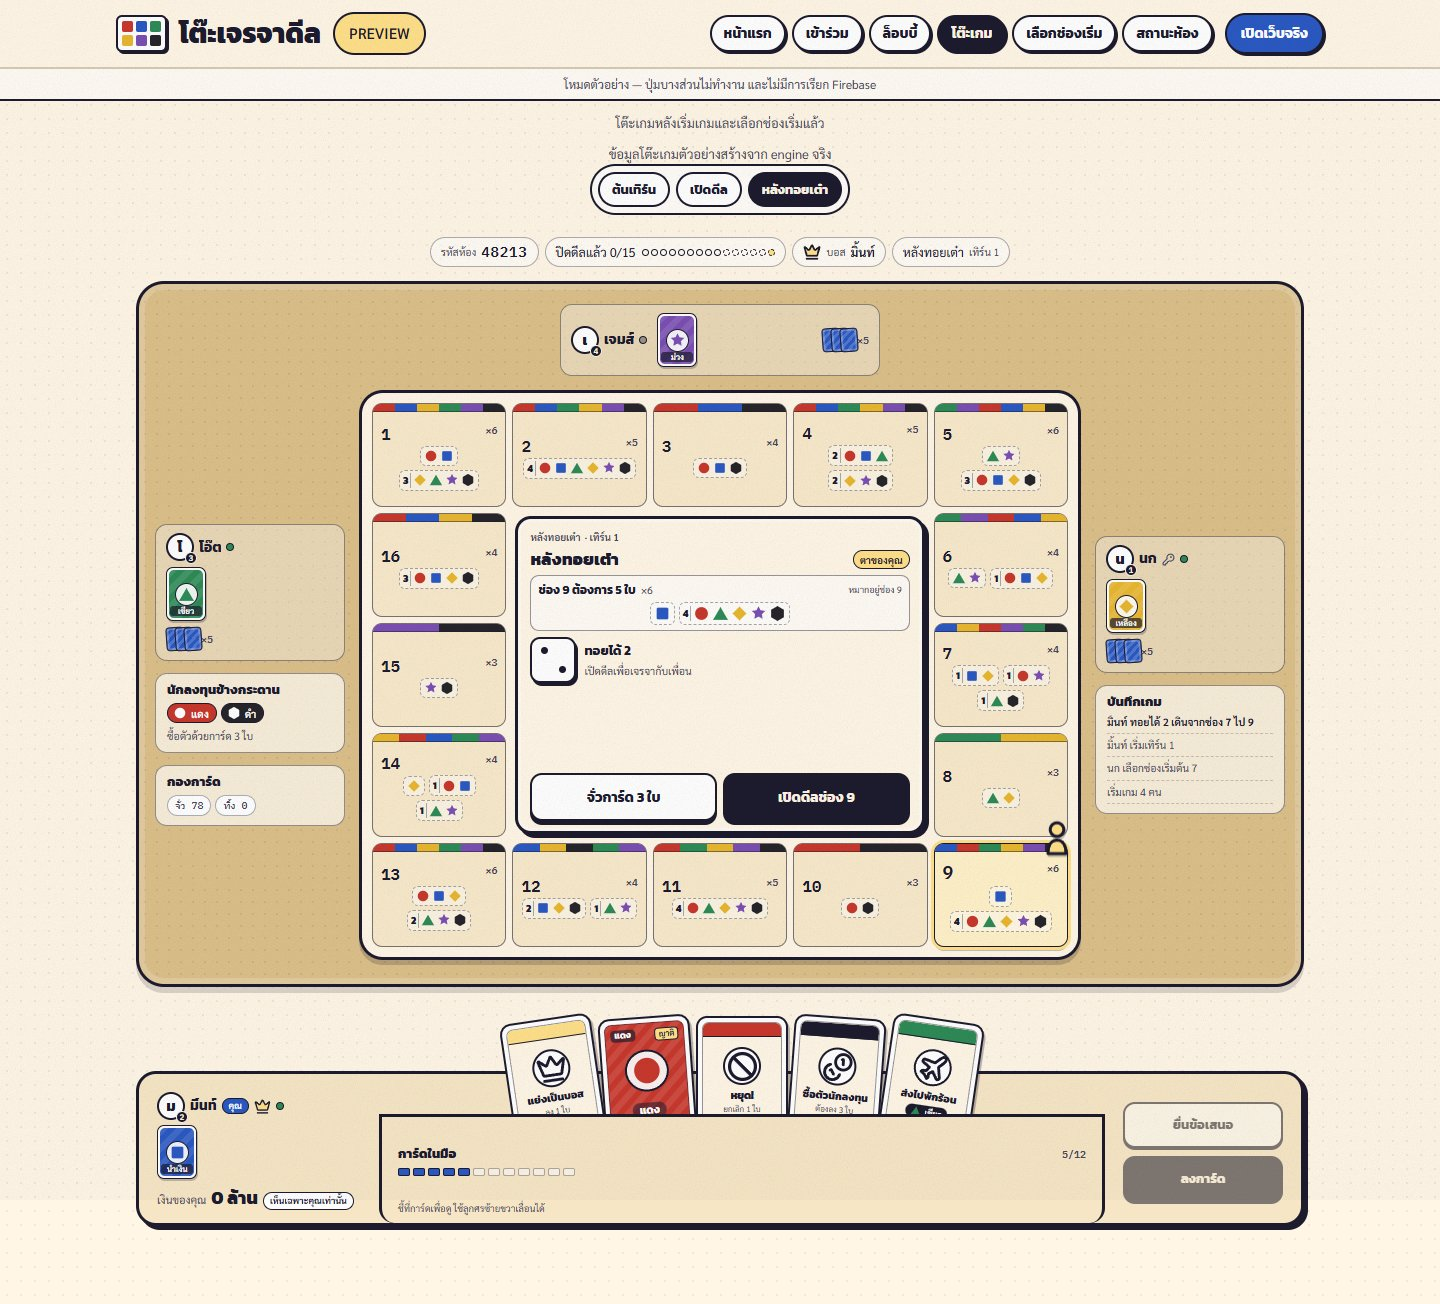
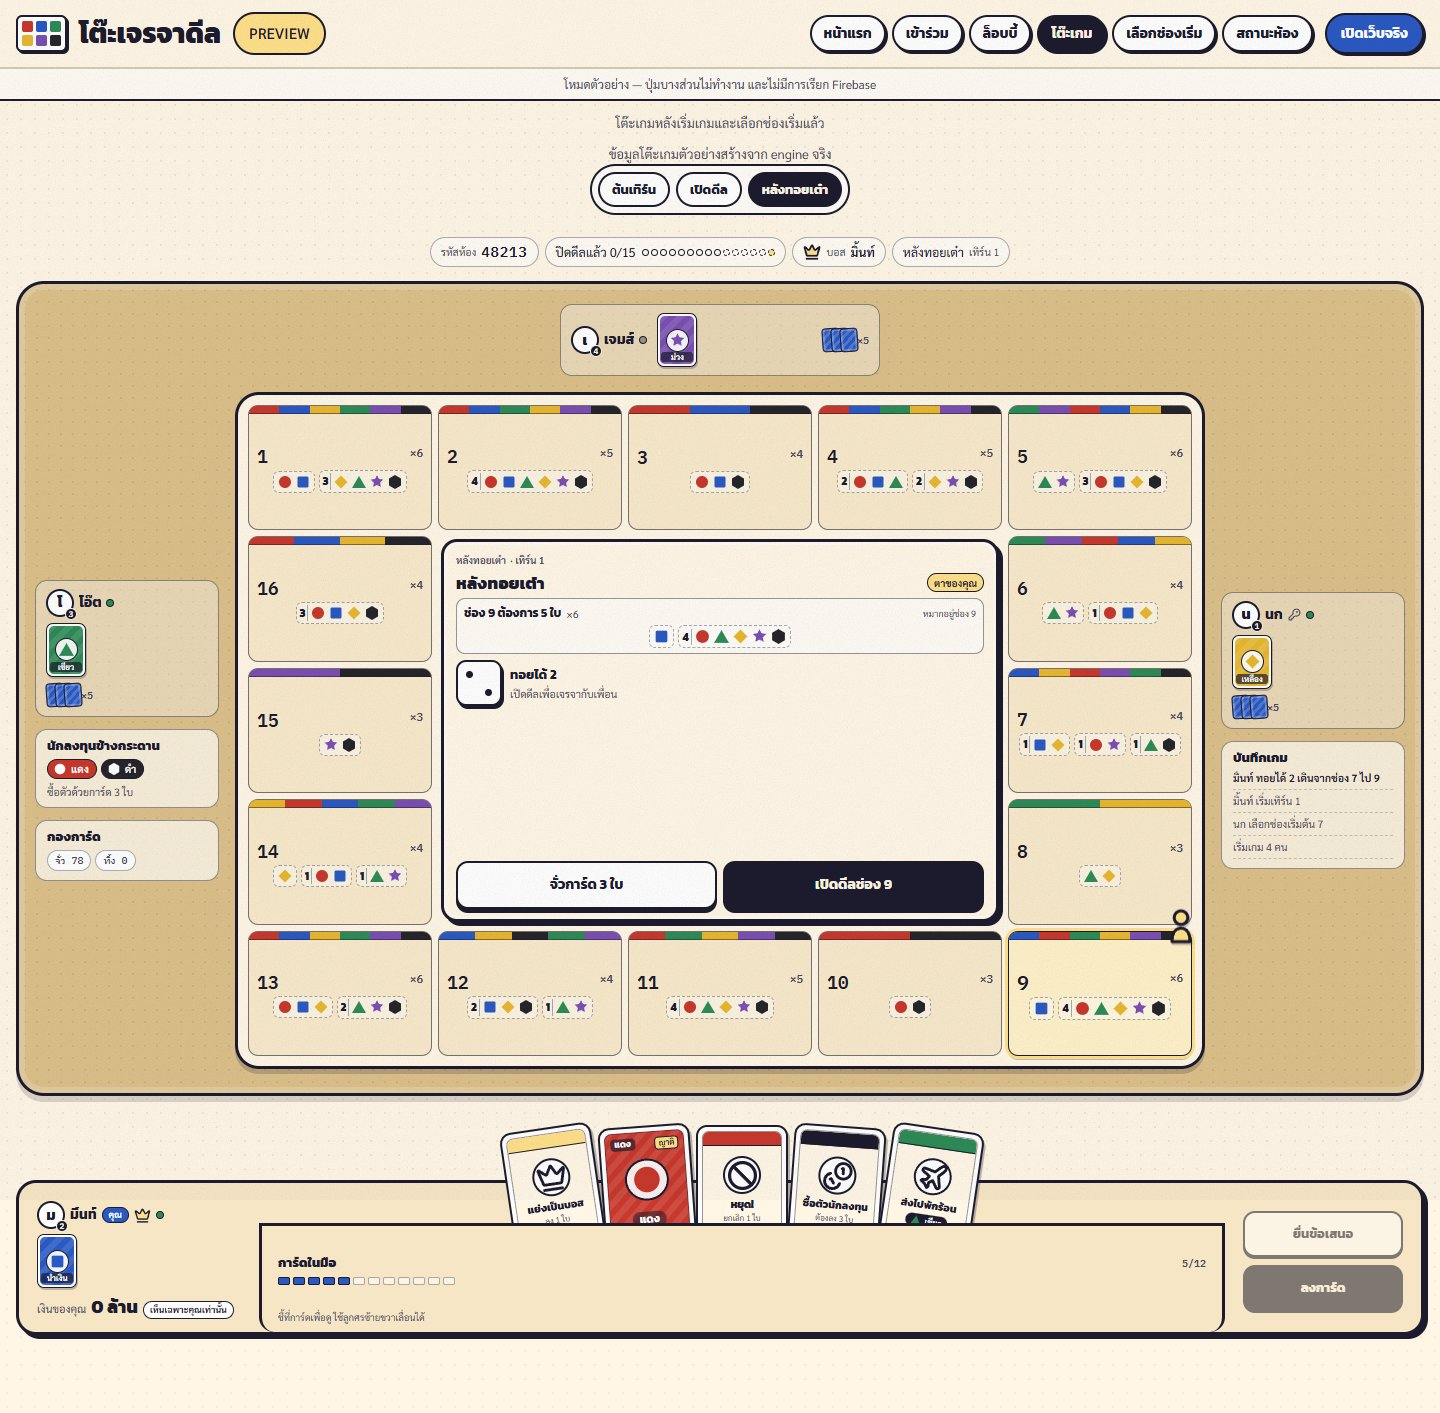
fix(M4): enlarge desktop table board area

diff --git a/src/styles/global.css b/src/styles/global.css
@@ -548,7 +548,7 @@
 
 .table-screen {
   width: 100%;
-  max-width: 1280px;
+  max-width: 1520px;
   margin: 0 auto;
 }
 
@@ -691,8 +691,8 @@
 
 .table-layout {
   display: grid;
-  grid-template-columns: minmax(150px, 190px) minmax(560px, 760px) minmax(150px, 190px);
-  gap: 14px;
+  grid-template-columns: minmax(160px, 184px) minmax(0, 1080px) minmax(160px, 184px);
+  gap: 16px;
   align-items: start;
   justify-content: center;
 }
@@ -719,7 +719,7 @@
 
 .table-board {
   width: 100%;
-  max-width: 760px;
+  max-width: 1080px;
   padding: 10px;
   border: 3px solid var(--ink);
   border-radius: 24px;
@@ -730,8 +730,9 @@
 .table-grid {
   display: grid;
   grid-template-columns: repeat(5, minmax(0, 1fr));
-  grid-template-rows: repeat(5, 104px);
+  grid-template-rows: repeat(5, minmax(0, 1fr));
   gap: 6px;
+  aspect-ratio: 1.45 / 1;
 }
 
 .table-deal-slot {
@@ -1213,14 +1214,14 @@
 
 .table-cell-top b {
   font-family: 'IBM Plex Mono', ui-monospace, monospace;
-  font-size: 16px;
+  font-size: 18px;
   font-weight: 600;
 }
 
 .table-cell-top span {
   color: var(--ink-soft);
   font-family: 'IBM Plex Mono', ui-monospace, monospace;
-  font-size: 10px;
+  font-size: 11px;
   font-weight: 600;
 }
 
@@ -1250,7 +1251,7 @@
 }
 
 .table-cell.is-current .table-cell-top b {
-  font-size: 18px;
+  font-size: 20px;
 }
 
 .table-cell.is-closed {
@@ -1322,7 +1323,7 @@
   border-right: 1px solid rgba(29, 27, 46, 0.35);
   color: var(--ink);
   font-family: 'Kanit', system-ui, sans-serif;
-  font-size: 10px;
+  font-size: 11px;
   font-weight: 800;
 }
 
@@ -2268,7 +2269,8 @@ button.table-family-chip:hover:not(:disabled) {
   }
 
   .table-grid {
-    grid-template-rows: repeat(5, 98px);
+    grid-template-rows: repeat(5, 108px);
+    aspect-ratio: auto;
   }
 
   .table-mine {

diff --git a/src/ui/pages/Preview.tsx b/src/ui/pages/Preview.tsx
@@ -148,10 +148,14 @@ function roomPlayersFromState(state: FullGameState): RoomPlayers {
   return players;
 }
 
-function PreviewToolbar() {
+function PreviewToolbar({ wide = false }: { wide?: boolean }) {
   return (
     <header className="sticky top-0 z-40 border-b-2 border-ink bg-paper">
-      <div className="mx-auto flex w-full max-w-[1240px] flex-wrap items-center gap-x-3 gap-y-2 px-4 py-3">
+      <div
+        className={`mx-auto flex w-full flex-wrap items-center gap-x-3 gap-y-2 px-4 py-3 ${
+          wide ? 'max-w-[1520px]' : 'max-w-[1240px]'
+        }`}
+      >
         <Brand />
         <Chip tone="gold" className="px-2.5 py-1 text-[11px]">
           {th.preview.badge}
@@ -190,16 +194,21 @@ function PreviewToolbar() {
 }
 
 function PreviewFrame({ screen, children }: { screen: PreviewScreenId; children: ReactNode }) {
+  const wide = screen === 'game' || screen === 'setup';
+  const frameWidth = wide ? 'max-w-[1520px]' : 'max-w-[1200px]';
+
   return (
     <div className="min-h-dvh" data-testid={`preview-${screen}`}>
       <div className="grain-overlay" aria-hidden="true" />
-      <PreviewToolbar />
-      <div className="relative mx-auto w-full max-w-[1200px] px-4 pt-3">
+      <PreviewToolbar wide={wide} />
+      <div className={`relative mx-auto w-full px-4 pt-3 ${frameWidth}`}>
         <p className="text-center text-[13px] text-ink-soft">
           {th.preview.descriptions[screen]}
         </p>
       </div>
-      <main className="relative mx-auto w-full max-w-[1200px] px-4 pb-16">{children}</main>
+      <main className={`relative mx-auto w-full px-4 pb-16 ${frameWidth}`}>
+        {children}
+      </main>
     </div>
   );
 }

diff --git a/src/ui/table/DealBoard.tsx b/src/ui/table/DealBoard.tsx
@@ -86,7 +86,7 @@ function BoardCell({
                 count: space.requiredInvestors,
               })}
             </span>
-            <GroupSymbols groups={space.groups} size={isCurrent ? 15 : 14} />
+            <GroupSymbols groups={space.groups} size={isCurrent ? 17 : 16} />
           </div>
           {isCurrent && (
             <motion.div

diff --git a/src/ui/pages/Room.tsx b/src/ui/pages/Room.tsx
@@ -435,7 +435,7 @@ export function Room() {
       <main
         className={
           tableMode
-            ? 'mx-auto w-full max-w-[1280px] px-4 pb-8'
+            ? 'mx-auto w-full max-w-[1520px] px-4 pb-8'
             : 'mx-auto w-full max-w-[1200px] px-4 pb-16'
         }
       >

diff --git a/progess.md b/progess.md
@@ -302,6 +302,7 @@ Milestone ถัดไปคือ M4 (Tabletop UI — Desktop) — รอคำ
 - เปลี่ยน `GameRoom` จากหน้าจอเริ่มเกมแบบง่ายเป็น **โต๊ะเจรจาเต็มรูปแบบ** ตามภาษาภาพของ `table.html` โดยซ่อน header ของห้องระหว่าง `playing` และใช้ top bar ของโต๊ะแทน
 - สร้างคอมโพเนนต์ใต้ `src/ui/table/` แยกความรับผิดชอบ: `TableScreen`, `TableTopBar`, `DealBoard`, `DealPanel`, `TableSeat`, `HandFan`, `GameLog`, `TableBits` และ helper บริสุทธิ์ใน `tableUtils.ts`
 - **กระดาน 16 ช่อง** แสดงหมายเลข, เงินปันผล, กลุ่มนักลงทุนที่ต้องการ, สีประจำช่อง, ช่องที่ปิดแล้วพร้อมเลขแผ่นดีล, ช่องปัจจุบัน, หมาก และ tooltip บน hover/focus
+- **ขยายพื้นที่โต๊ะตามผลรีวิว:** ขยาย table container เป็น 1520px, กระดานสูงสุด 1080px, ใช้ `aspect-ratio: 1.45` ให้บอร์ดกว้างขึ้นโดยไม่เตี้ยเกินไป, ลดความกว้าง side panel เป็น 184px และขยายเลข/สัญลักษณ์ในช่อง; ที่ viewport 1440px กระดานใหญ่ขึ้นจากประมาณ 722×570px เป็นประมาณ 970×677px
 - **ที่นั่ง 4–6 คน** หมุนตามผู้เล่นท้องถิ่น (ซ้าย/บน/ขวา) แสดงเงิน, นักลงทุน, สถานะพักร้อน, จำนวนการ์ดคว่ำ, host, boss และสถานะออนไลน์/ออฟไลน์
 - **มือผู้เล่น** เป็น fan การ์ดพร้อม hover/ลูกศรซ้าย–ขวา, ช่องการ์ด 12 ใบ และแสดงการ์ด 5 ชนิด: ญาติ, ส่งไปพักร้อน, ซื้อตัวนักลงทุน, หยุด!, แย่งเป็นบอส รวมถึงการ์ด wild และพื้นหน้านักลงทุนบนที่นั่ง
 - **แผงดีลปัจจุบัน** แสดงช่อง, มูลค่า, เงินปันผล, ส่วนแบ่ง, เงื่อนไขกลุ่ม, สถานะครบ/ขาด, ผู้เข้าร่วม, ข้อเสนอที่ถูกตอบรับ และปุ่มเปิด/ล้มดีล
